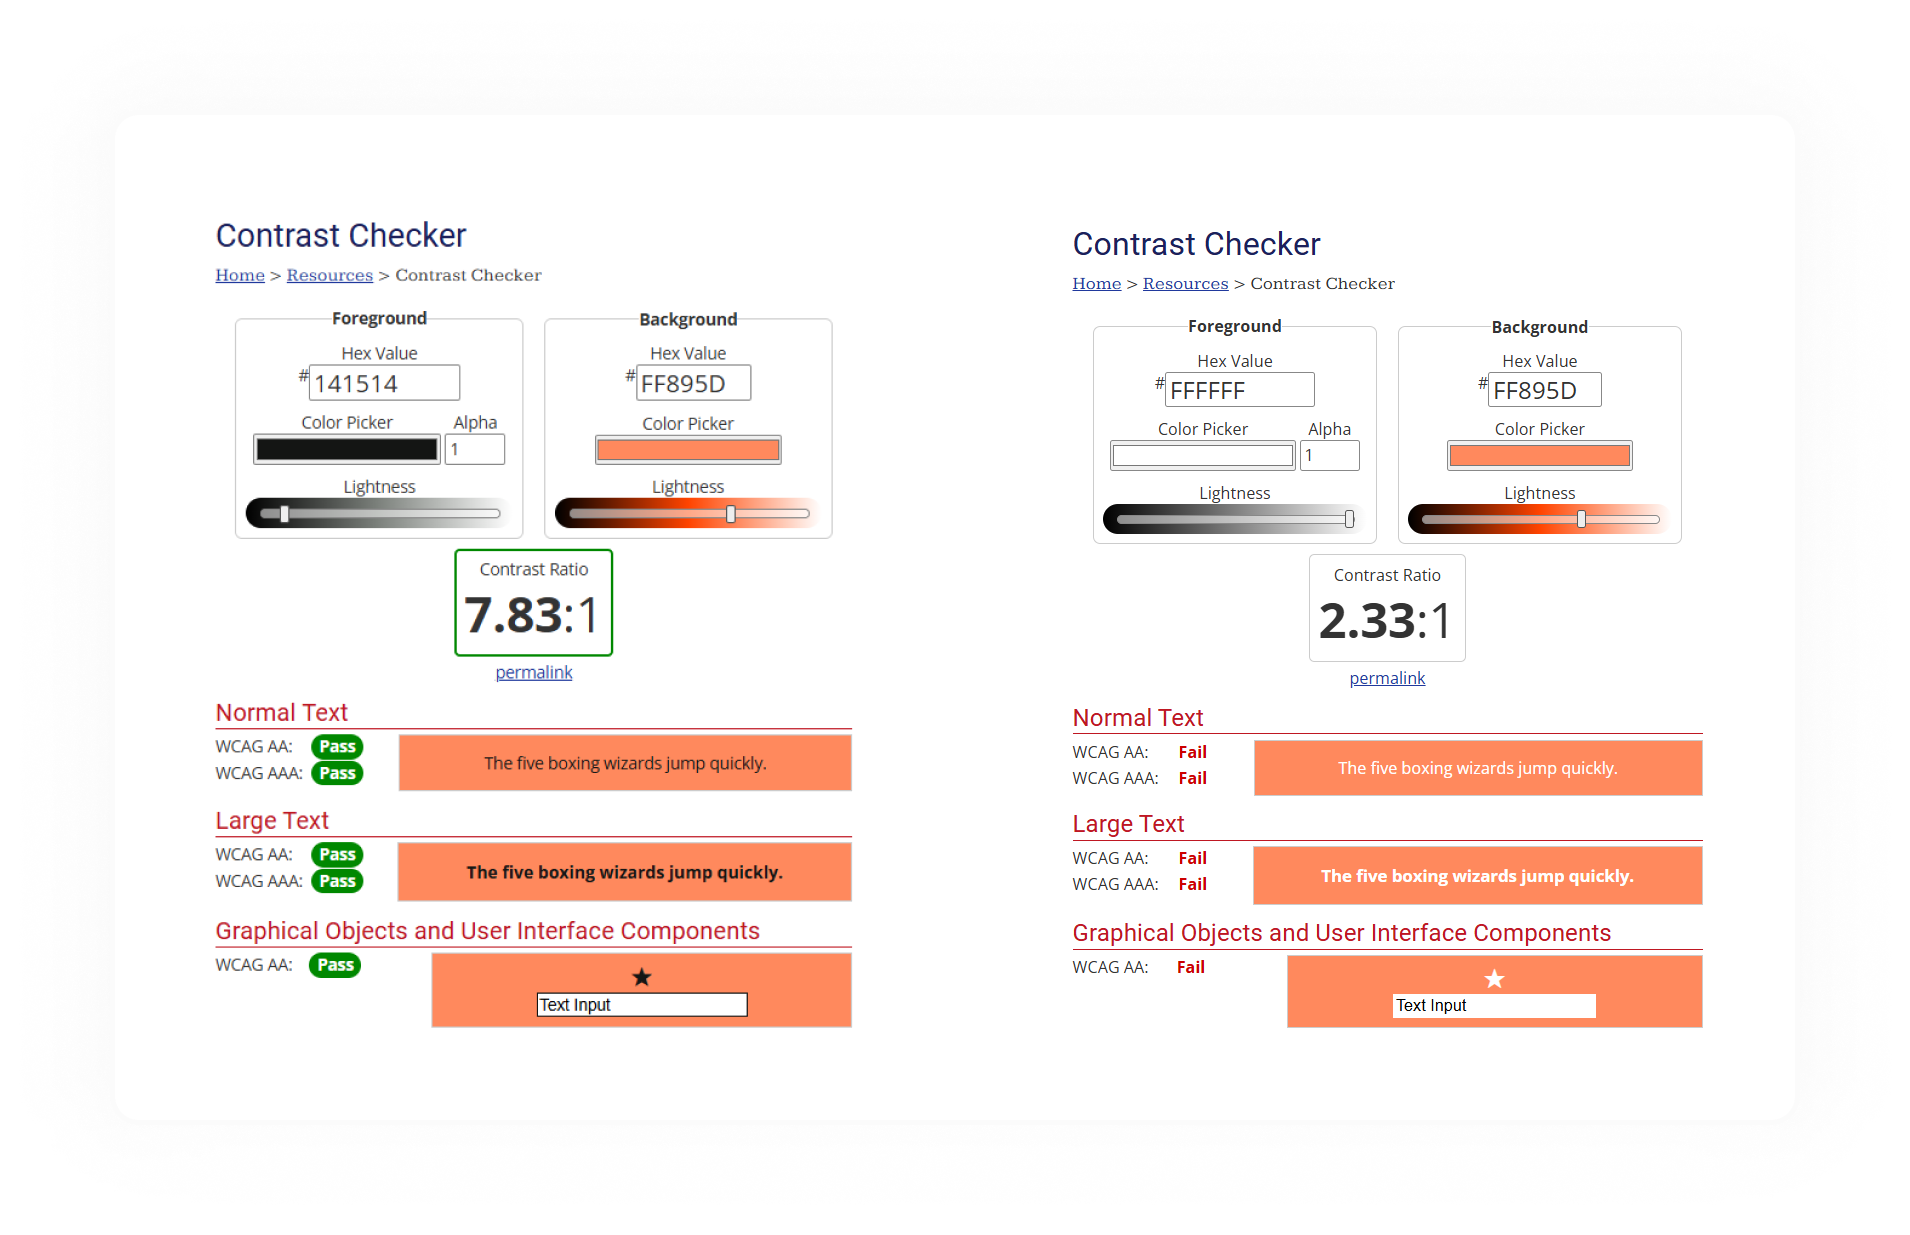
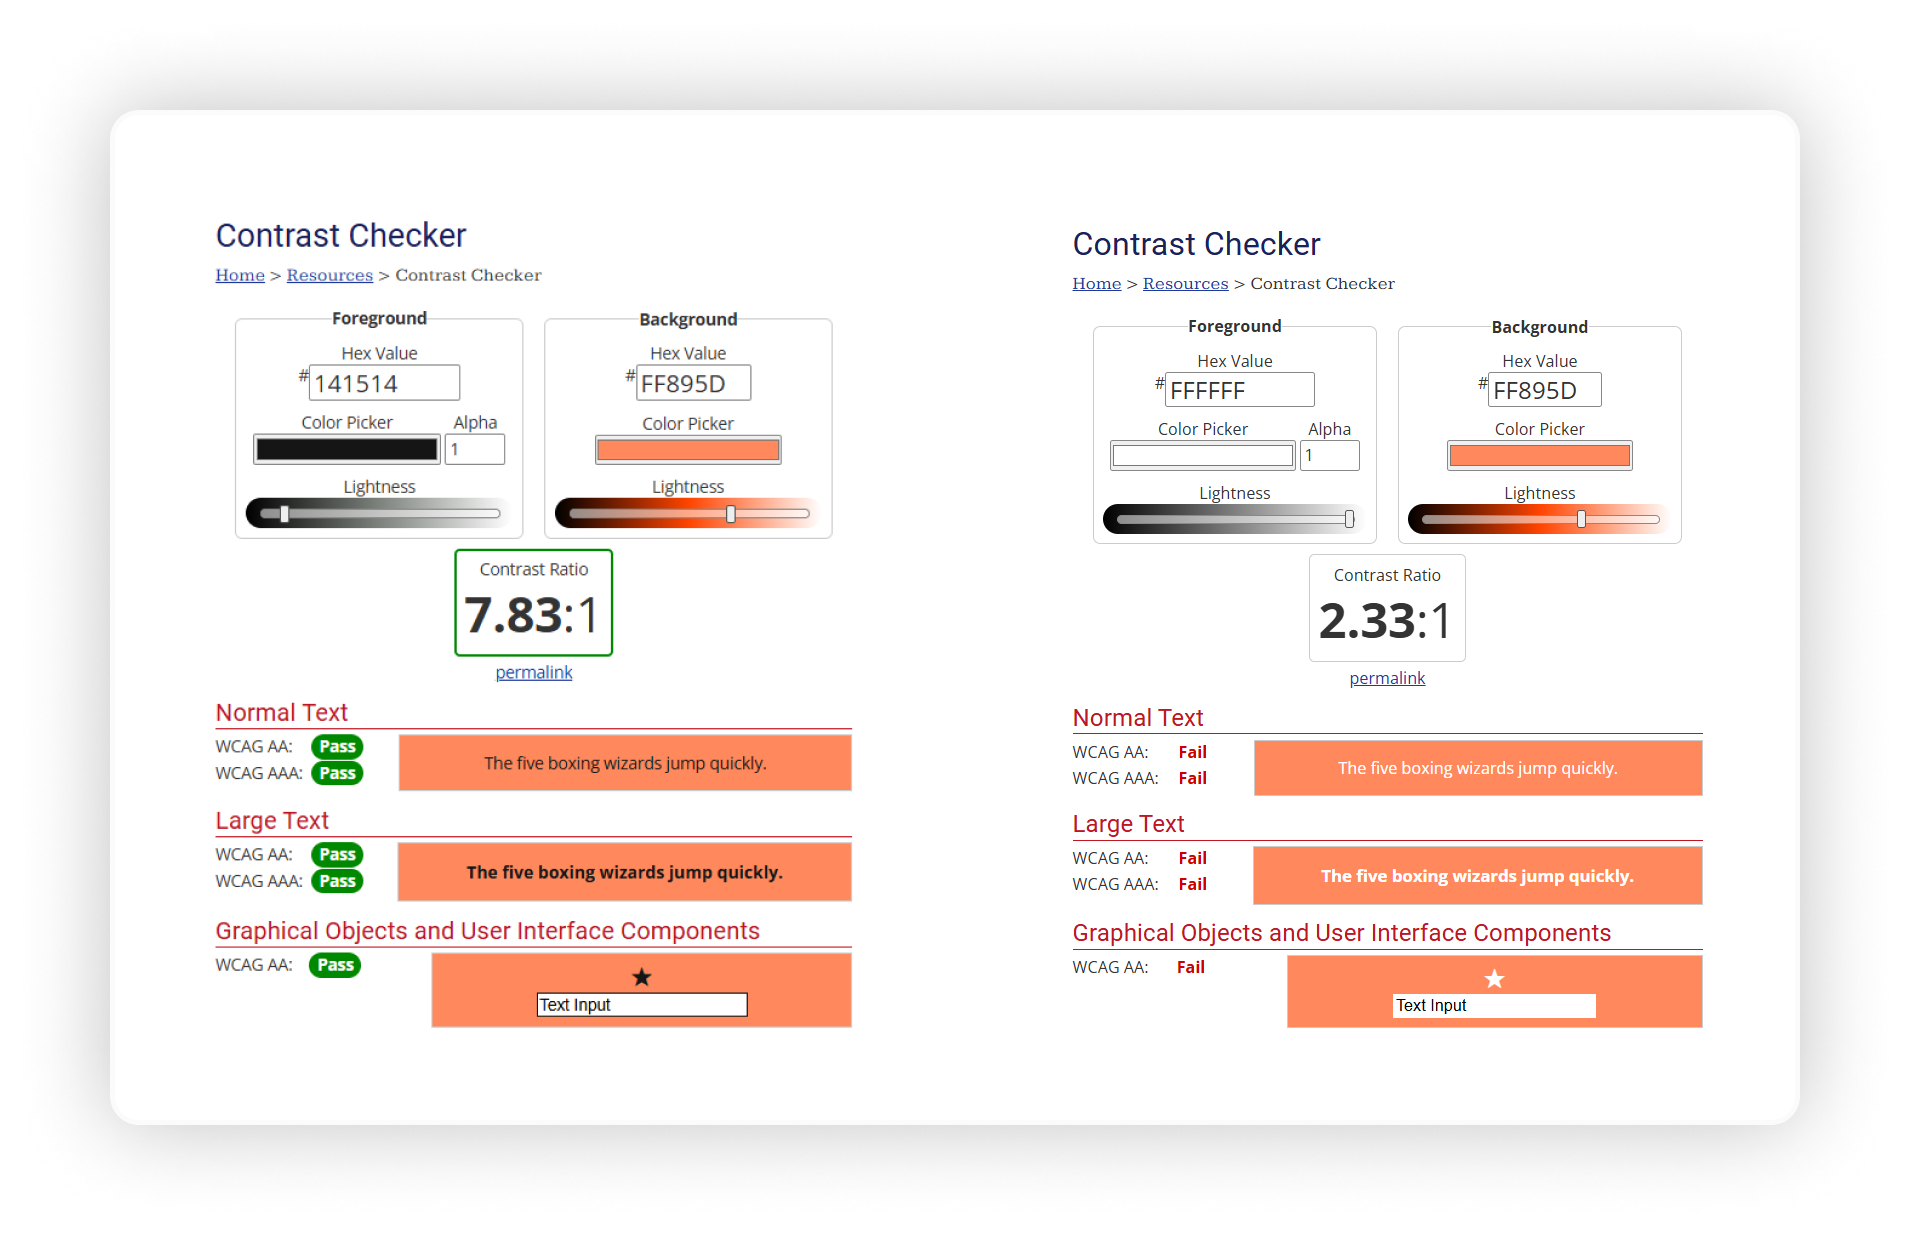
Fixed Contrast checker for Agartee App

diff --git a/portfolio-details-agartee-app.html b/portfolio-details-agartee-app.html
@@ -381,8 +381,8 @@
                     healthcare providers.</li>
                 </ul>
                 <div class="portfolio-info">
-                  <img src="assets/img/agartee-app/agartee-app-visual-consistency.png" class="img-fluid"
-                    alt="Agartee's App Visual Consistency">
+                  <img src="assets/img/agartee-app/agartee-app-contrast-checker.png" class="img-fluid"
+                    alt="Agartee's App contrast Checker">
                 </div>
               </div>
             </div>
